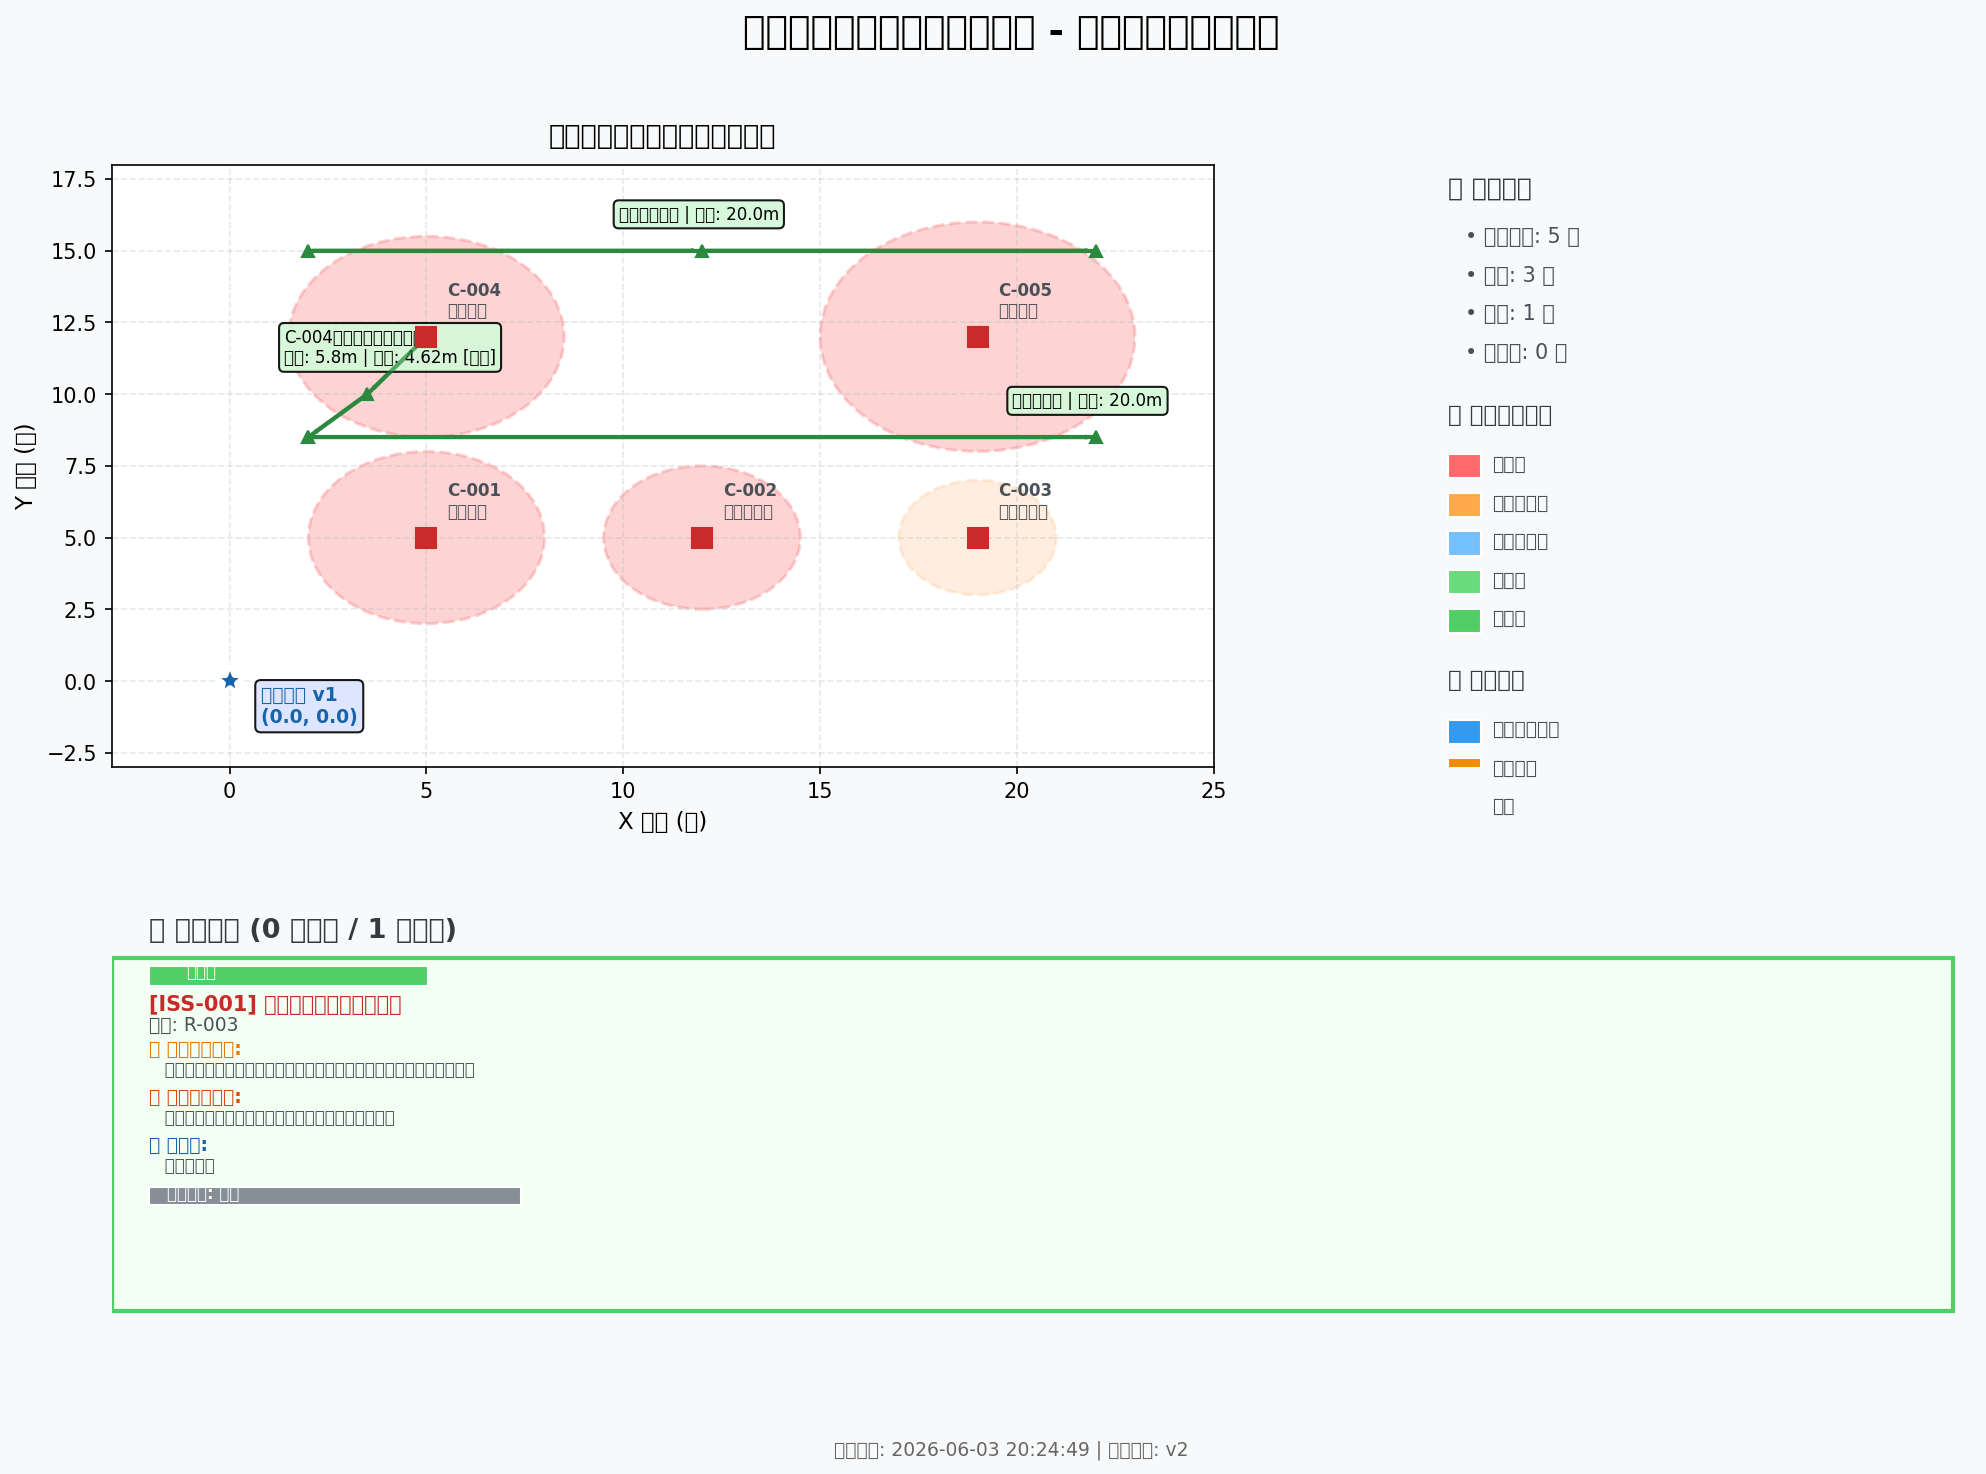
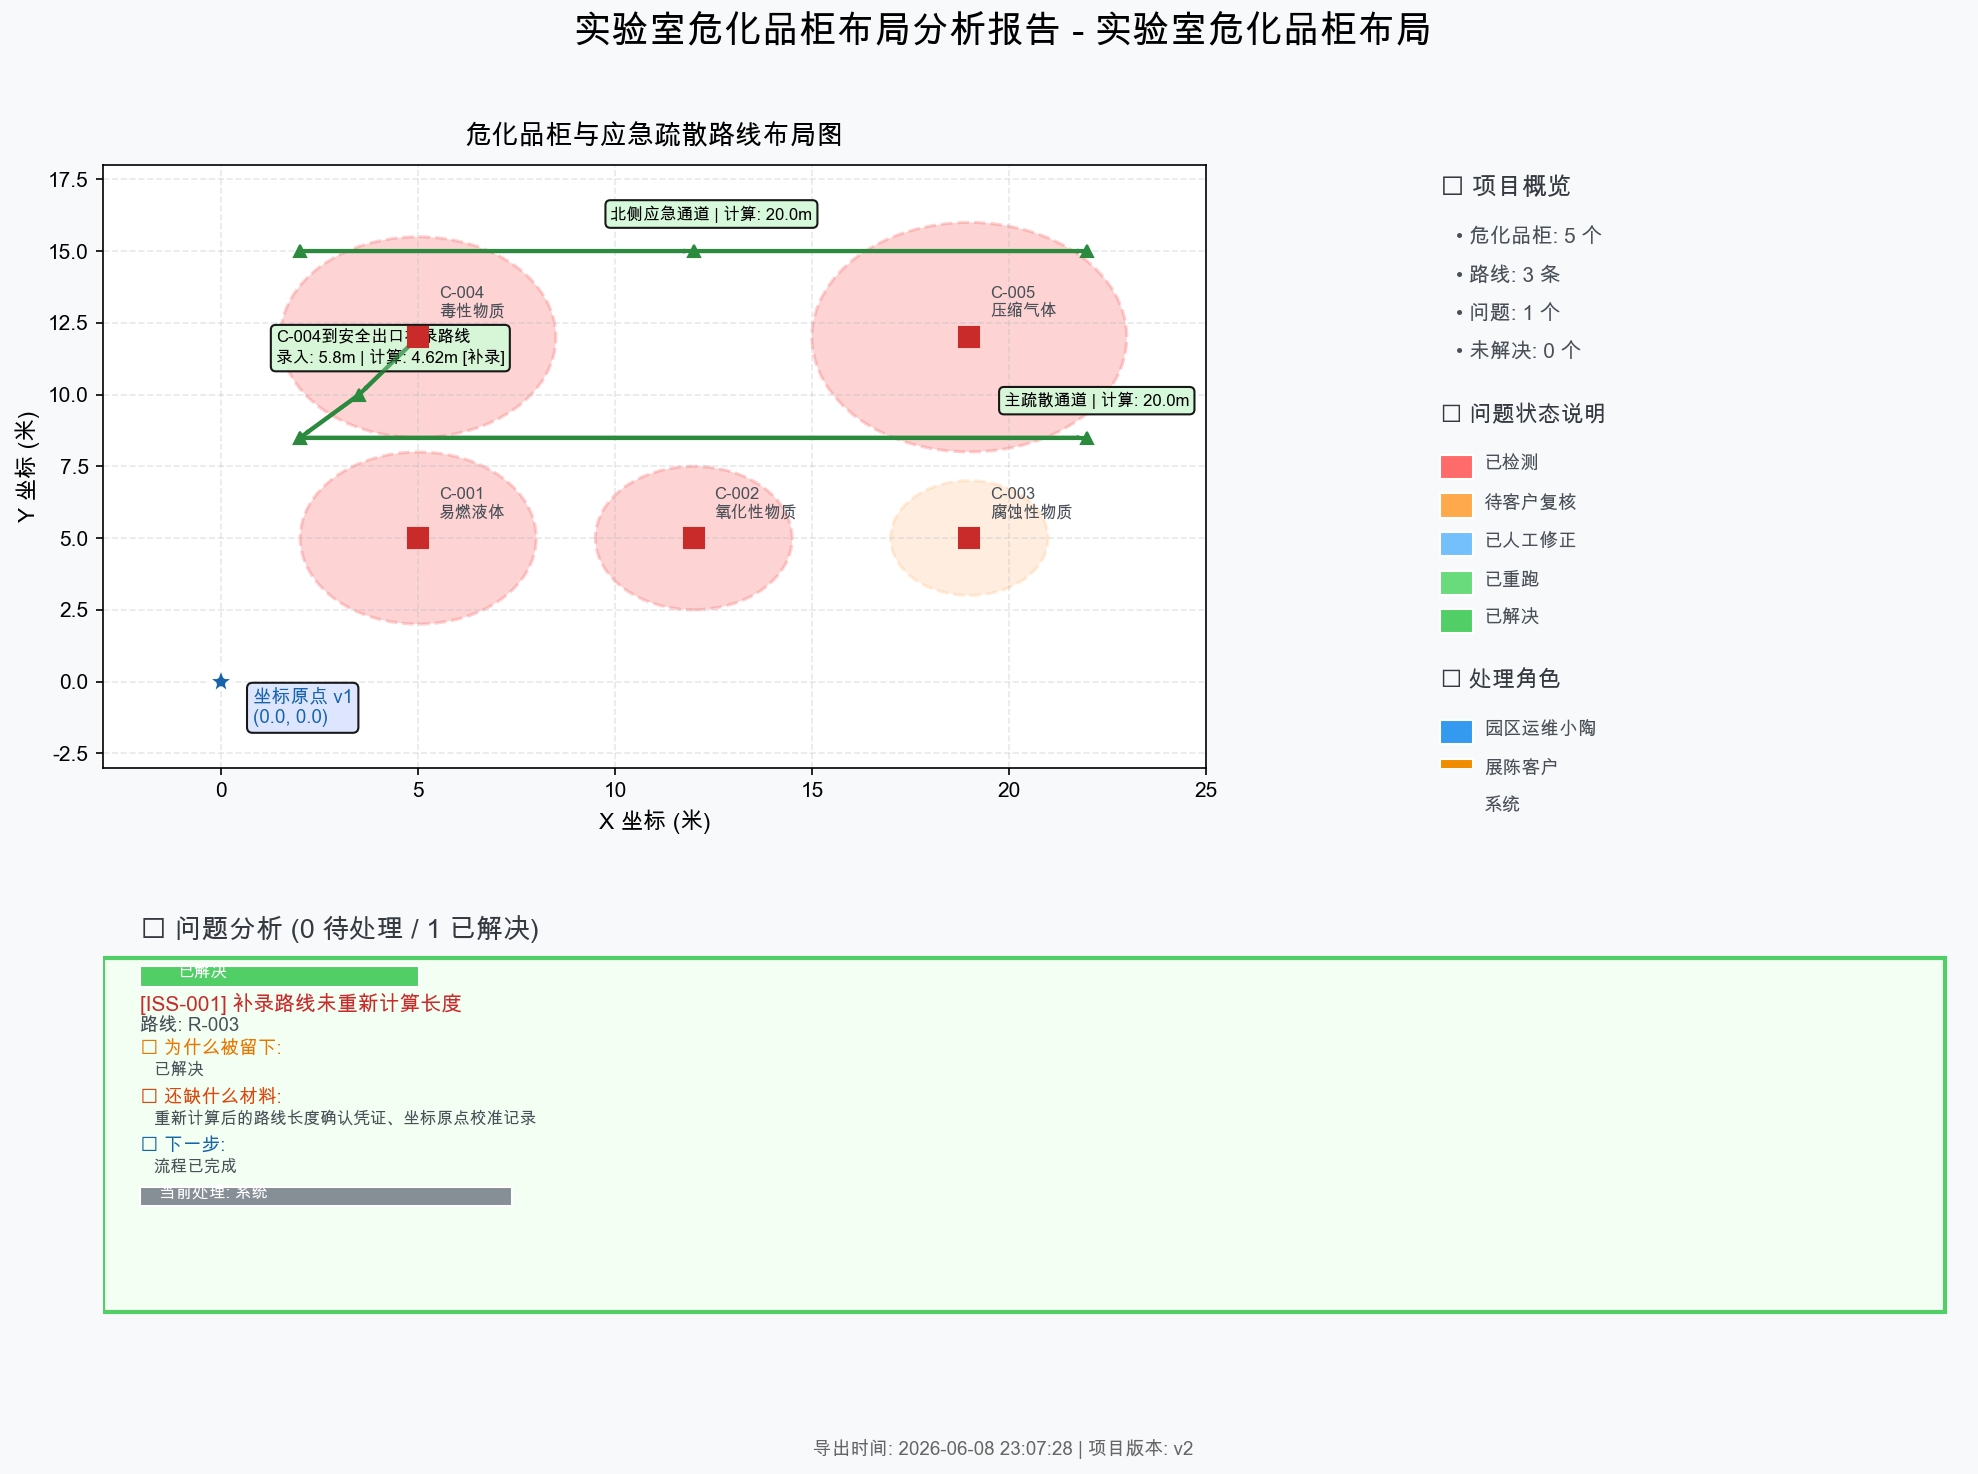
Publish zy72283

diff --git a/zy72283/static/index.html b/zy72283/static/index.html
@@ -524,7 +524,7 @@
     <div id="toast"></div>
 
     <script>
-        const API_BASE = 'http://localhost:5000/api';
+        const API_BASE = window.location.origin + '/api';
         let currentProjectId = null;
 
         async function apiCall(endpoint, method = 'GET', data = null) {
@@ -828,6 +828,8 @@
         }
 
         window.onload = async () => {
+            document.getElementById('loading').style.display = 'none';
+            document.getElementById('content').style.display = 'block';
             try {
                 const health = await apiCall('/health');
                 if (health.status === 'ok') {

diff --git a/zy72283/lab_cabinet_layout/models.py b/zy72283/lab_cabinet_layout/models.py
@@ -83,9 +83,19 @@ class IssueRecord:
     resolved_at: Optional[datetime] = None
 
     def why_kept(self) -> str:
-        """说明这条为什么被留下"""
+        """说明这条为什么被留下——跟当前状态走，不只看 issue_type"""
+        if self.status == IssueStatus.RESOLVED:
+            return "已解决"
         if self.issue_type == IssueType.ROUTE_NOT_RECALCULATED:
-            return "补录后系统未自动触发路线长度重算，需展陈客户确认录入值是否准确"
+            if self.status == IssueStatus.PENDING_REVIEW:
+                return "补录后系统未自动触发路线长度重算，需展陈客户确认录入值是否准确"
+            if self.status == IssueStatus.MANUAL_FIXED:
+                return "园区运维小陶已确认人工录入值，待系统重跑后交展陈客户复核"
+            if self.status == IssueStatus.RERUN:
+                return "系统已重跑路线长度计算，出现补录差异，需展陈客户复核确认"
+            if self.status == IssueStatus.DETECTED:
+                return "补录路线存在异常，需园区运维小陶检查坐标原点说明后确认处理方式"
+            return "补录路线长度存疑，待进一步核实"
         elif self.issue_type == IssueType.WRONG_CALIBER:
             return "测量口径与标准规范不一致，需重新核对测量标准"
         elif self.issue_type == IssueType.MISSING_MATERIAL:
@@ -93,20 +103,40 @@ class IssueRecord:
         return "待进一步核实"
 
     def next_step(self) -> str:
-        """下一步该找谁"""
-        if self.status == IssueStatus.PENDING_REVIEW:
+        """下一步该找谁——严格与 current_handler 对齐"""
+        if self.status == IssueStatus.RESOLVED:
+            return "流程已完成"
+        if self.current_handler == Handler.EXHIBITION_CLIENT:
             return f"联系 {Handler.EXHIBITION_CLIENT.value} 复核数据准确性"
-        elif self.status in [IssueStatus.DETECTED, IssueStatus.RERUN]:
+        if self.current_handler == Handler.PARK_OPS_XT:
             return f"由 {Handler.PARK_OPS_XT.value} 检查坐标原点说明并确认处理方式"
-        return "流程已完成"
+        if self.status == IssueStatus.MANUAL_FIXED:
+            return "等待系统重跑验证，重跑后自动流转至展陈客户复核"
+        return f"由 {Handler.PARK_OPS_XT.value} 检查坐标原点说明并确认处理方式"
 
     def missing_info(self) -> str:
-        """还缺什么材料"""
-        if self.missing_materials:
-            return "、".join(self.missing_materials)
+        """还缺什么材料——跟当前状态走"""
+        base = []
         if self.issue_type == IssueType.ROUTE_NOT_RECALCULATED:
-            return "缺重新计算后的路线长度确认凭证、坐标原点校准记录"
-        return "待确认"
+            if self.status == IssueStatus.PENDING_REVIEW:
+                base = ["重新计算后的路线长度确认凭证", "坐标原点校准记录"]
+            elif self.status == IssueStatus.MANUAL_FIXED:
+                base = ["系统重跑计算结果", "展陈客户复核确认"]
+            elif self.status == IssueStatus.RERUN:
+                base = ["展陈客户对补录差异的复核确认"]
+            elif self.status == IssueStatus.DETECTED:
+                base = ["坐标原点说明确认", "路线长度校验记录"]
+            else:
+                base = ["重新计算后的路线长度确认凭证", "坐标原点校准记录"]
+        elif self.missing_materials:
+            base = list(self.missing_materials)
+        else:
+            return "待确认"
+        if self.missing_materials:
+            for m in self.missing_materials:
+                if m not in base:
+                    base.append(m)
+        return "、".join(base)
 
 
 @dataclass

diff --git a/zy72283/lab_cabinet_layout/service.py b/zy72283/lab_cabinet_layout/service.py
@@ -1,6 +1,6 @@
 """服务层 - 编排核心三步流程"""
 from typing import Dict, Any, Optional, List
-from .models import LayoutProject, Handler
+from .models import LayoutProject, Handler, IssueStatus
 from .data_import import (
     import_safety_radius_csv, import_safety_radius_json,
     import_routes_csv, import_routes_json, validate_safety_radius_overlap
@@ -108,7 +108,10 @@ def run_standard_three_step_process(
     if origin_check["needs_update"]:
         print(f"⚠  原点需要更新: {origin_check['issues']}")
 
-    pending_issues = [i for i in project.issues if i.status.value in ["已检测", "已人工修正"]]
+    pending_issues = [i for i in project.issues
+                      if i.current_handler == Handler.PARK_OPS_XT
+                      or i.status == IssueStatus.DETECTED
+                      or i.status == IssueStatus.MANUAL_FIXED]
     for issue in pending_issues:
         print(f"\n🔧 处理问题 {issue.issue_id}...")
         process_result = process_issue_after_origin_check(

diff --git a/zy72283/lab_cabinet_layout/api.py b/zy72283/lab_cabinet_layout/api.py
@@ -27,11 +27,13 @@ _project_cache = {}
 
 def _get_or_create_project(project_id: str = None, use_demo: bool = False):
     """获取或创建项目"""
-    if use_demo:
-        return create_demo_project()
-
     if project_id and project_id in _project_cache:
         return _project_cache[project_id]
+
+    if use_demo:
+        project = create_demo_project()
+        _project_cache[project.project_id] = project
+        return project
 
     from .models import LayoutProject
     import time
